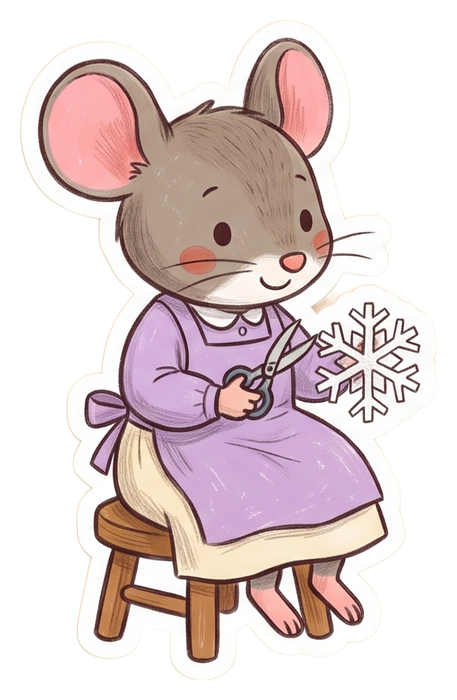
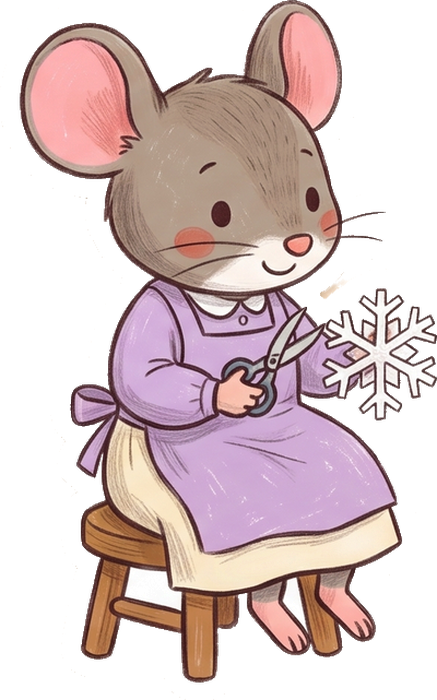
Christmas: Holly and May stop working and look at the detective in their talks; sticker outlines removed from Holly, May and Nico

diff --git a/index.html b/index.html
@@ -3982,9 +3982,13 @@ const SPRITES = {
   momo:{src:'assets/characters/momo-higgsfield.png', w:420, h:700, face:'35 14 350 350', anchor:.5},
   pip:{src:'assets/characters/pip-higgsfield.png', w:480, h:700, face:'23 0 434 434', anchor:.5},
   // the Christmas star case (scripts/cut-christmas-assets.py): Holly, May (seated, as she works), Nico
-  holly:{src:'assets/characters/holly-higgsfield.png', w:443, h:700, face:'50 10 320 320', anchor:.5},
-  mae:{src:'assets/characters/mae-higgsfield.png', w:457, h:700, face:'40 0 360 360', anchor:.45},
-  nico:{src:'assets/characters/nico-higgsfield.png', w:486, h:700, face:'75 0 330 330', anchor:.47}
+  // Holly and May look at the detective while they talk (user request); at their own place, not talking, they work
+  // (the :work pose, spriteKey). Talk poses: one sheet, scripts/cut-christmas-talk.py
+  holly:{src:'assets/characters/holly-talk.png', w:567, h:700, face:'45 5 360 360', anchor:.42},
+  mae:{src:'assets/characters/mae-talk.png', w:449, h:700, face:'45 10 350 350', anchor:.45},
+  'holly:work':{src:'assets/characters/holly-higgsfield.png', w:412, h:700, anchor:.5},
+  'mae:work':{src:'assets/characters/mae-higgsfield.png', w:437, h:700, anchor:.45},
+  nico:{src:'assets/characters/nico-higgsfield.png', w:476, h:700, face:'60 0 357 357', anchor:.47}
 };
 // Fiona's ending expressions: S.mood.fiona = 'nervous' | 'sad'. `height` is relative to the base sprite.
 Object.assign(SPRITES, {
@@ -3993,15 +3997,17 @@ Object.assign(SPRITES, {
   // Owen in the questioning (violin case): cornered from his second claim, sorry when he owns up
   'owen:nervous':{src:'assets/characters/owen-nervous-higgsfield.png', w:470, h:700, anchor:.47},
   'owen:sad':{src:'assets/characters/owen-sad-higgsfield.png', w:471, h:700, anchor:.47},
-  'nico:nervous':{src:'assets/characters/nico-nervous-higgsfield.png', w:439, h:700, anchor:.47},
-  'nico:sad':{src:'assets/characters/nico-nervous-higgsfield.png', w:439, h:700, anchor:.47},
+  'nico:nervous':{src:'assets/characters/nico-nervous-higgsfield.png', w:428, h:700, anchor:.47},
+  'nico:sad':{src:'assets/characters/nico-nervous-higgsfield.png', w:428, h:700, anchor:.47},
   // the Christmas lighting: the friends from behind, looking up at the lit tree (one sheet, scripts/cut-christmas-backs.py)
   'holly:back':{src:'assets/characters/holly-back.png', w:447, h:700, anchor:.5},
   'mae:back':{src:'assets/characters/mae-back.png', w:349, h:700, anchor:.5},
   'ella:back':{src:'assets/characters/ella-back.png', w:428, h:700, anchor:.5},
   'tess:back':{src:'assets/characters/tess-back.png', w:410, h:700, anchor:.5}
 });
-const spriteKey = id => S.mood[id] ? `${id}:${S.mood[id]}` : id;
+// a person with a :work pose works at their own place and turns to the detective only in their conversation
+const spriteKey = id => S.mood[id] ? `${id}:${S.mood[id]}`
+  : SPRITES[`${id}:work`] && !S.visit?.[id] && (S.investigate || S.cur !== id || ending) ? `${id}:work` : id;
 // Each sprite's mouth pictures, [x, y, w, h] in sprite px: the drawn mouth painted over with the fur around it, and a
 // closed or an open mouth on top (one generated sheet of mouths, mouths/sheet-original.png; the duck's beak is replaced
 // whole). Made by a script from the drawn mouth's place; see assets/characters/README.md.

diff --git a/scripts/remove-sticker-border.py b/scripts/remove-sticker-border.py
@@ -1,0 +1,50 @@
+"""Remove the white sticker outline around a cut-out character (the Holly/May/Nico sheet was drawn as stickers).
+
+usage: python scripts/remove-sticker-border.py <in.png> <out.png> [lightest-dark]
+  lightest-dark (default 150): pixels whose darkest channel is above it count as rim; Holly's outline-less wool
+  needs 200, then [rings] (default 0) more rings of the greyer rim.
+  From the transparent outside, floods through light, unsaturated pixels (the white rim and its soft edge) and makes
+  them transparent, trims and scales to 700 px high; it stops at the dark drawn outline, so white inside the figure (wool, belly, paper) stays.
+"""
+import sys
+from collections import deque
+from PIL import Image
+
+src, dst = sys.argv[1], sys.argv[2]
+limit = int(sys.argv[3]) if len(sys.argv) > 3 else 150
+im = Image.open(src).convert('RGBA'); px = im.load(); w, h = im.size
+
+def rim(p):
+    r, g, b, a = p
+    if a < 40: return True
+    return min(r, g, b) > limit and max(r, g, b) - min(r, g, b) < 45
+
+seen = bytearray(w * h); q = deque()
+for x in range(w):
+    for y in (0, h - 1): q.append((x, y))
+for y in range(h):
+    for x in (0, w - 1): q.append((x, y))
+while q:
+    x, y = q.popleft()
+    if x < 0 or y < 0 or x >= w or y >= h or seen[y * w + x]: continue
+    seen[y * w + x] = 1
+    if not rim(px[x, y]): continue
+    px[x, y] = (0, 0, 0, 0)
+    q.extend(((x + 1, y), (x - 1, y), (x, y + 1), (x, y - 1)))
+# then a few rings of the greyer rim only, for a figure flooded with the higher limit (Holly)
+for _ in range(int(sys.argv[4]) if len(sys.argv) > 4 else 0):
+    clear = [(x, y) for y in range(1, h - 1) for x in range(1, w - 1)
+             if px[x, y][3] and min(px[x, y][:3]) > 150 and max(px[x, y][:3]) - min(px[x, y][:3]) < 45
+             and any(px[x + dx, y + dy][3] == 0 for dx, dy in ((1, 0), (-1, 0), (0, 1), (0, -1)))]
+    for x, y in clear: px[x, y] = (0, 0, 0, 0)
+# soften the new edge: pixels next to the cleared area that are still light grey become half see-through
+for y in range(1, h - 1):
+    for x in range(1, w - 1):
+        r, g, b, a = px[x, y]
+        if a and min(r, g, b) > 170 and any(px[x + dx, y + dy][3] == 0 for dx, dy in ((1, 0), (-1, 0), (0, 1), (0, -1))):
+            px[x, y] = (r, g, b, a // 2)
+bbox = im.getbbox(); im = im.crop(bbox)
+# back to the sprites' 700 px height; print where the old picture's pixels moved (to move face boxes)
+k = 700 / im.size[1]
+im = im.resize((round(im.size[0] * k), 700), Image.LANCZOS)
+im.save(dst); print(dst, im.size, 'offset', bbox[:2], 'scale', round(k, 4))

diff --git a/scripts/cut-christmas-talk.py b/scripts/cut-christmas-talk.py
@@ -1,0 +1,30 @@
+"""Cut Holly's and May's talk poses (stopped working, looking at the detective) out of their Higgsfield sheet.
+
+usage: python scripts/cut-christmas-talk.py
+  reads assets/characters/holly-mae-talk-higgsfield-original.png (flat magenta background), writes
+  assets/characters/<holly|mae>-talk.png the same way as cut-christmas-backs.py (magenta keyed out, each figure by its
+  columns of opaque pixels, trimmed with a 3% margin, 700 px high).
+"""
+import importlib.util, sys
+sys.argv[1:] = ["."]   # cut-christmas-assets reads its download folder at import
+from PIL import Image
+
+spec = importlib.util.spec_from_file_location('cut', 'scripts/cut-christmas-assets.py')
+cut = importlib.util.module_from_spec(spec); spec.loader.exec_module(cut)
+
+src = Image.open('assets/characters/holly-mae-talk-higgsfield-original.png').convert('RGBA')
+px = src.load()
+w, h = src.size
+for y in range(h):
+    for x in range(w):
+        r, g, b, _ = px[x, y]
+        m = min(r, b) - g
+        if m > 120: px[x, y] = (0, 0, 0, 0)
+        elif m > 50:
+            a = round(255 * (120 - m) / 70)
+            k = min(r, b) - max(g, 0)
+            px[x, y] = (max(0, r - k // 2), g, max(0, b - k // 2), a)
+for name, (x0, x1) in zip(['holly', 'mae'], cut.opaque_runs(src, 0, 12)):
+    fig = cut.trim(src.crop((x0, 0, x1, h)), height=700)
+    fig.save(f'assets/characters/{name}-talk.png')
+    print(name, x0, x1, fig.size)

diff --git a/HANDOFF.md b/HANDOFF.md
@@ -143,7 +143,7 @@ node server.js            # http://localhost:5173/
 ### 3.0.3 다섯째 사건: 사라진 크리스마스트리의 별 (`?case=christmas`)
 
 - **데이터**: `CHRISTMAS_CASE`(설계서 `design/case-10-christmas-star.md`). 사건 카드 Case 05(도서관 다음), 이번 사건의 열쇠 `GRAMMAR['present-prog']` 4쪽(긍정·부정·Are you -ing?·What are you -ing?, 설계서 §8 예문; 예문 음성 `audio/examples/present-prog-*.wav`는 아직 없음). 저장 키 `detective.save.christmas`. 단어장·노트 뜻에 이 사건의 빈칸 단어를 없는 것만 더했다(`WORDS`·`GLOSS`).
-- **그림**(Higgsfield, `assets/places/christmas/`·`assets/characters/`, 7절 README): 광장(낮·어둡게 한 밤·불 켜진 트리), 창고(저울을 가져가면 저울 없는 판), 천막(작업대 관찰 뒤 자동차 상자가 포장되고 클립보드 체크 넷), 썰매(상자를 열면 상자 속 금별; 저울은 들고 있어도 썰매 그림에 놓지 않음, 사용자 의견), 밤·점등 판 바닥(`tree-floor-night.jpg`은 낮 바닥 색을 맞춤, `tree-floor-lit.jpg`·하늘 `tree-lit-sky.jpg`은 점등 원본에서 자름, `scripts/make-christmas-night-pieces.py`; 하늘은 대화·엔딩 카메라에서만 그림 위에 붙음 `ART_SKY`), 창고 모퉁이 사진, 확대 조사 셋(장난감 작업대·별 장난감 뒷면·금별 뒷면, 흐린 장소 위), 축제장 지도(`PACK.map`). 장갑 상자를 누르면 그 자리에서 털장갑 상자가 잠깐 열렸다 닫힌다(`clue.peek`, `peekAt()`). 홀리·메이·니코와 니코 당황 표정(`nico:sad`도 같은 그림). 말하는 입·얼굴 아이콘은 아직 없음. **점등 엔딩**(사용자 요청): "Merry Christmas!" 줄에서 말풍선·버튼을 숨기고 카메라가 트리를 타고 꼭대기 금별까지 천천히 올라갔다가(`peek`, 2.6초, 4초 머묾) 별과 넷이 다 보이는 넓은 화면으로 내려온 뒤(`wide.top`: 그림 위 300px까지 보이게) 엘라가 말한다. 불이 켜진 뒤로는 홀리·메이·엘라·테스가 뒷모습으로 트리를 보고, 말하는 사람만 앞을 본다(라운드의 `turn:'lit'`, `S.mood`=`back`, 뒷모습은 한 장 `xmas-backs-higgsfield-original.png`에서 `scripts/cut-christmas-backs.py`로 자름). **음성**(Higgsfield MiniMax, 감정 없음, `audio/christmas/`, 목록은 `scripts/christmas-voice-lines.js`가 게임 데이터에서 뽑음): 탐정 Grady 104문장(질문·행동·인사·생각·현장 관찰·소지품·추리 보드 `deduce/`·심문·마무리), 오소리 경사 Fraser 6줄, 엘라 Petra 12줄(사용자 결정: 감정 없이), 같은 문장은 파일을 복사해 128파일. 홀리·메이·테스·니코는 아직 브라우저 음성.
+- **그림**(Higgsfield, `assets/places/christmas/`·`assets/characters/`, 7절 README): 광장(낮·어둡게 한 밤·불 켜진 트리), 창고(저울을 가져가면 저울 없는 판), 천막(작업대 관찰 뒤 자동차 상자가 포장되고 클립보드 체크 넷), 썰매(상자를 열면 상자 속 금별; 저울은 들고 있어도 썰매 그림에 놓지 않음, 사용자 의견), 밤·점등 판 바닥(`tree-floor-night.jpg`은 낮 바닥 색을 맞춤, `tree-floor-lit.jpg`·하늘 `tree-lit-sky.jpg`은 점등 원본에서 자름, `scripts/make-christmas-night-pieces.py`; 하늘은 대화·엔딩 카메라에서만 그림 위에 붙음 `ART_SKY`), 창고 모퉁이 사진, 확대 조사 셋(장난감 작업대·별 장난감 뒷면·금별 뒷면, 흐린 장소 위), 축제장 지도(`PACK.map`). 장갑 상자를 누르면 그 자리에서 털장갑 상자가 잠깐 열렸다 닫힌다(`clue.peek`, `peekAt()`). 홀리·메이·니코와 니코 당황 표정(`nico:sad`도 같은 그림, 흰 스티커 테두리는 지움). 홀리·메이는 자기 장소에서 대화하지 않을 때 일하는 그림(`:work`), 대화를 열면 손을 멈추고 탐정을 보는 그림(기본 스프라이트, `spriteKey()`: `:work` 그림이 있으면 장소 화면·다른 사람과의 대화·엔딩에서 일하는 그림, 방문 중이면 기본). 말하는 입·얼굴 아이콘은 아직 없음. **점등 엔딩**(사용자 요청): "Merry Christmas!" 줄에서 말풍선·버튼을 숨기고 카메라가 트리를 타고 꼭대기 금별까지 천천히 올라갔다가(`peek`, 2.6초, 4초 머묾) 별과 넷이 다 보이는 넓은 화면으로 내려온 뒤(`wide.top`: 그림 위 300px까지 보이게) 엘라가 말한다. 불이 켜진 뒤로는 홀리·메이·엘라·테스가 뒷모습으로 트리를 보고, 말하는 사람만 앞을 본다(라운드의 `turn:'lit'`, `S.mood`=`back`, 뒷모습은 한 장 `xmas-backs-higgsfield-original.png`에서 `scripts/cut-christmas-backs.py`로 자름). **음성**(Higgsfield MiniMax, 감정 없음, `audio/christmas/`, 목록은 `scripts/christmas-voice-lines.js`가 게임 데이터에서 뽑음): 탐정 Grady 104문장(질문·행동·인사·생각·현장 관찰·소지품·추리 보드 `deduce/`·심문·마무리), 오소리 경사 Fraser 6줄, 엘라 Petra 12줄(사용자 결정: 감정 없이), 같은 문장은 파일을 복사해 128파일. 홀리·메이·테스·니코는 아직 브라우저 음성.
 - **흐름**: 경사(광장 입구) → 첫 질문 b0 "What's missing?" 받아 적기(빈칸 Ella · information desk) → 노트를 닫으면 경사가 떠나(`gone:['badger:b0']`) 광장으로 돌아가고 안내소에 엘라(`unlocks.b0`, 생각 대사 없음) → 엘라 e0 → e1·e2(e2로 창고·이름 없는 양 홀리, 엘라의 물품 확인 허락 `after`) → 창고 사진(보관함 → 반짝이, 바깥 자국)·홀리 h1–h4(h4는 바깥 자국 사진 뒤) → h3로 천막의 메이·테스 → 테스는 받아쓰기 없는 행동 두 개(별 목격·창고 이유) 뒤 t1, `장난감들을 봐도 돼?`(확대 조사 `toys`, c-toys·장난감 자동차) → t3로 썰매의 니코(`unnamed:'Penguin'`) → 니코 n1–n5(창고 이유는 행동, n5는 썰매 바닥 사진 뒤) → n4 뒤 생각 → 테스 t4·`뒷면을 봐도 돼?`(확대 조사 `toystar`) → 썰매에서 `Tess's table` 관찰(`!table-seen`) → 추리 9문항 → `니코 심문 시작`.
 - **심문**(`ending.script`): 탐정의 선택 대사 → 주장 셋(테스의 선물 t3/c-toys, 메이 m3, 테스의 별 t4/c-toy-star; 틀리면 그 주장의 탐정 줄 `miss`) → 경사·엘라가 썰매에 합류(`join`, `PACK.lateJoin`·`joinPositions`)·개봉 지시(`open-order` 깃발) → **심문 멈춤**(`scene:'sleigh', until:['starback-0']`): 심문 화면이 닫히고 썰매 현장으로. 상자 다섯 중 장갑 상자는 "Just mittens in this one.", 셋째 상자를 열면 금별이 소지품에 들어오고(`box-open`) 상자 속 별 사진 → `Back of the star`(확대 조사 `starback`, `back:'sleigh'`) 사진을 찍고 노트를 닫으면 심문이 다음 주장부터 다시(게이지 그대로, `S.scriptPause`). 멈춘 동안 지도로 창고에 다녀올 수 있고, 창고 구석 저울은 개봉 지시 뒤에 주울 수 있다. **저울 쓰기**(사용자 선택 시안): 썰매에서 `소지품` → 저울 → `쓰기`(`items.scale.use`: 개봉 지시 뒤·상자를 열기 전, 썰매에서만) → 확대 조사 `weigh`(흐린 썰매 위 저울과 그 아래 상자 다섯 줄, 썰매와 같은 순서). 상자를 누르면 빈 접시로 올라가고(둘 다 차 있으면 오른쪽과 바뀜), 접시 위 상자를 누르면 내려온다. 무거운 쪽으로 8° 기울고 같으면 수평(`balance.weights` 1·1·3·1·1, 셋째가 별), 탐정은 말하지 않는다. 저울 그림 한 장을 팔 둘·접시 둘·기둥으로 잘라 돌린다(`WEIGH`, `weighArt()`, `plates`). `<`로 썰매에 돌아간다(`back:'sleigh'`). 테스트 도구는 이 상자들을 증거로 모으지 않는다. → 별이 아니라는 주장에 c-mark → 자백·경사가 니코를 데려감(니코·경사 `gone:['!confessed']`).
 - **반환·점등식**(`ending.handoff`): 썰매 앞의 엘라에게 이동 없이 금별 건네기 → 엘라의 초대 → `트리 광장으로 가기`: 그 차례의 `visit`로 엘라·홀리·메이·테스가 광장에 서고 `flag:'night'`(밤), "Merry Christmas!" 줄의 `flag:'lit'`(불 켜진 트리)와 `wide:{ x, w }`(사용자 요청: 엘라만 보이지 않게, 카메라가 천천히 뒤로 빠져 켜진 트리 앞의 엘라·홀리·메이·테스를 한 화면에, `ending.wide`가 있으면 `focusCamera()`가 그 폭에 맞춤, 마지막 탐정 줄까지 유지; 광장에 선 자리는 홀리 40·메이 48.5·엘라 58·테스 67%) → 복습.

diff --git a/assets/characters/README.md b/assets/characters/README.md
@@ -143,6 +143,8 @@ Draw a NEW character in exactly the same art style, proportions, size and framin
 
 - 홀리(양)·메이(생쥐, 앉아서 가위질)·니코(펭귄) 한 장 `b7571dd2-ea5c-4ea3-86bd-4f79f863a91f` → `holly-mae-nico-higgsfield-original.jpg`(16:9 2K, 2크레딧, 참조 엘라·핀과 테스·루비 시트 업로드 media `5ed35ee6-…`·`37934cf2-…`), 배경 제거 `a2a05aec-…`. 니코 당황 `8e15f2a7-c1f5-4829-be44-973fab4497d3` → `nico-nervous-original.jpg`(1K, 1.5크레딧), 배경 제거 `45c2e2c2-…`.
 - `scripts/cut-christmas-assets.py`로 인물마다 잘라 높이 700(`holly-`·`mae-`·`nico-`·`nico-nervous-higgsfield.png`). 말하는 입(`MOUTHS`)·얼굴 아이콘(`ui/icons-v2`)은 아직 만들지 않았다(얼굴은 `SPRITES[].face`로 그림에서 잘라 보임).
+- 흰 스티커 테두리는 `scripts/remove-sticker-border.py`로 지웠다(홀리 `200 6`, 메이·니코·니코 당황은 기본값; 잘라 낸 그림을 덮어씀, 높이 700). 위 자르기 스크립트를 다시 돌리면 그 뒤에 이것도 다시 돌린다.
+- **대화하는 모습**(사용자 요청: 일하다가 탐정을 보고 말하기): 홀리(리본을 늘어뜨리고 정면)·메이(의자에 앉은 채 가위·눈송이를 무릎에, 정면) 한 장 `c7030135-61c3-4009-8874-15aa5adb4b2f` → `holly-mae-talk-higgsfield-original.png`(16:9, 1.5크레딧, 참조 엘라 그림만, 마젠타 배경). `scripts/cut-christmas-talk.py` → `holly-talk.png`·`mae-talk.png`. 게임에서 이 그림이 기본(대화·얼굴·엔딩 방문), 자기 장소에서 대화하지 않을 때는 일하는 그림(`holly:work`·`mae:work`, `spriteKey`). 첫 시도 `47a3c1fd-…`(`holly-mae-talk-try1.png`)는 손일을 계속하는 자세라 쓰지 않음.
 
 ## 크리스마스 점등: 뒷모습 넷
 
